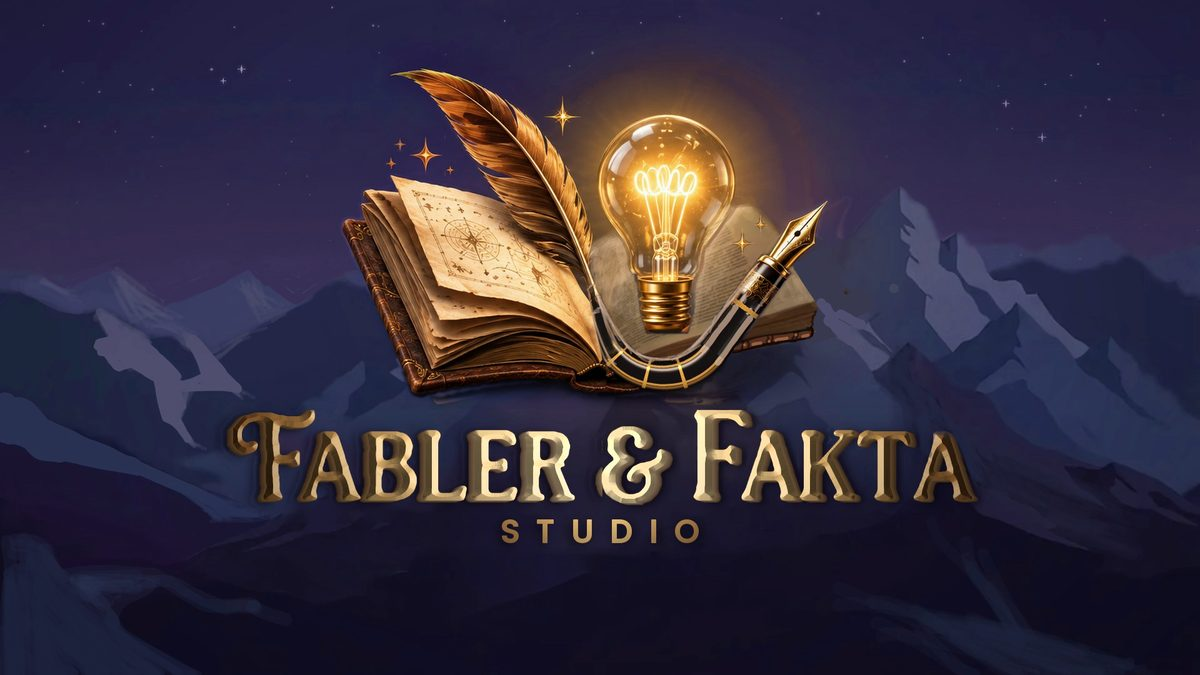
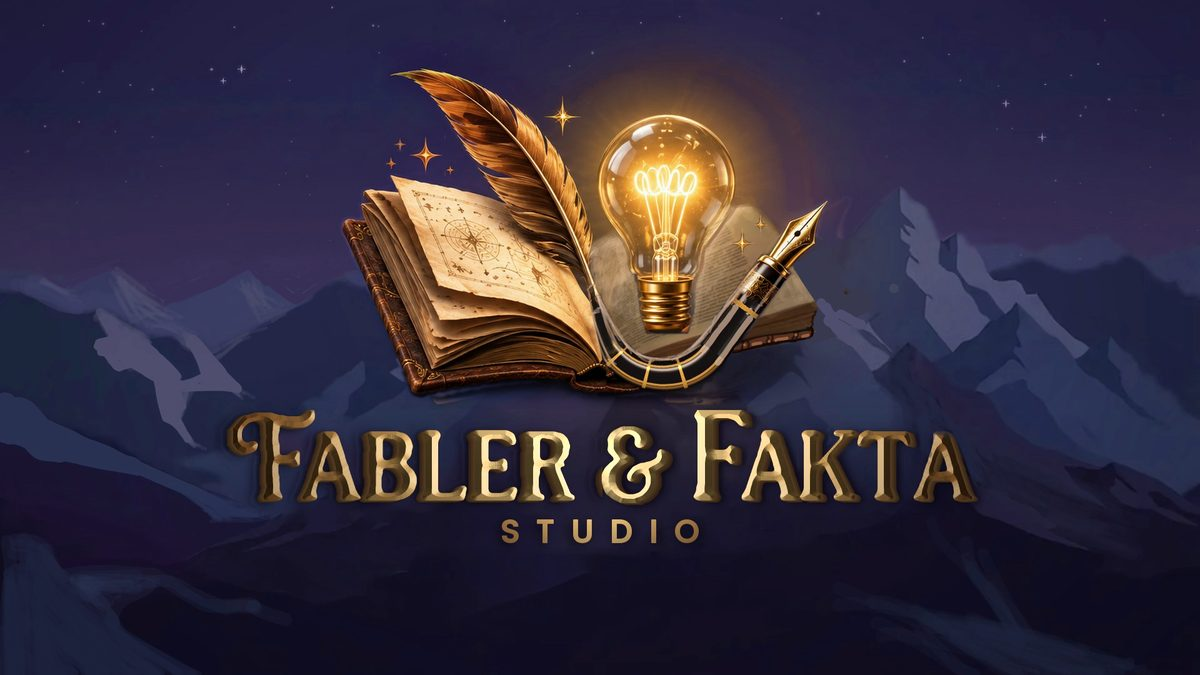
Mer variation mellan gyllene brunt och blekt guld i titeln
Claude-Session: https://claude.ai/code/session_01KKpdg1kibzxrmRUHzSLNaJ

Changed region(s): [[0.3392, 0.6222, 0.555, 0.7467], [0.5858, 0.5911, 0.6475, 0.7467]]

diff --git a/index.html b/index.html
@@ -14,7 +14,7 @@
   <link rel="icon" type="image/png" href="assets/img/favicon.png">
   <link rel="apple-touch-icon" href="assets/img/apple-touch-icon.png">
   <link rel="preload" as="image" href="assets/img/hero-mobil-720.jpg" media="(max-aspect-ratio: 3/4)">
-  <link rel="preload" as="image" href="assets/img/hero-1920.jpg?v=2" media="(min-aspect-ratio: 3/4)">
+  <link rel="preload" as="image" href="assets/img/hero-1920.jpg?v=3" media="(min-aspect-ratio: 3/4)">
   <link rel="stylesheet" href="assets/style.css?v=4">
 </head>
 <body>
@@ -22,15 +22,15 @@
   <header id="top" class="hero">
     <picture>
       <source media="(max-aspect-ratio: 3/4)" srcset="assets/img/hero-mobil-720.jpg 720w, assets/img/hero-mobil-1080.jpg 1080w" sizes="100vw">
-      <img src="assets/img/hero-1920.jpg?v=2" srcset="assets/img/hero-1280.jpg?v=2 1280w, assets/img/hero-1920.jpg?v=2 1920w" sizes="100vw"
+      <img src="assets/img/hero-1920.jpg?v=3" srcset="assets/img/hero-1280.jpg?v=3 1280w, assets/img/hero-1920.jpg?v=3 1920w" sizes="100vw"
            alt="Fabler &amp; Fakta Studio – en uppslagen bok, en fjäderpenna och en glödlampa under en stjärnhimmel">
     </picture>
     <div class="stage" aria-hidden="true">
       <img class="layer-bg" src="assets/img/mobil-bg.jpg" alt="">
       <div class="float"><div class="tilt">
         <picture>
-          <source type="image/webp" srcset="assets/img/mobil-logo.webp?v=2">
-          <img class="layer-logo" src="assets/img/mobil-logo.png?v=2" alt="">
+          <source type="image/webp" srcset="assets/img/mobil-logo.webp?v=3">
+          <img class="layer-logo" src="assets/img/mobil-logo.png?v=3" alt="">
         </picture>
       </div></div>
     </div>
